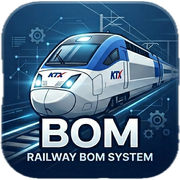
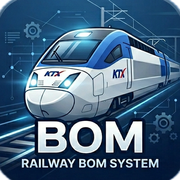
fix(pwa): 아이콘 8% 확대 후 가운데 크롭 — 둘레 흰 테두리 제거
원본 둘레에 얇은 흰 가장자리가 있어 모바일에서도 살짝 보였음.
ZOOM=1.08로 살짝 확대한 뒤 같은 크기로 가운데 크롭해서
바깥 흰 띠를 잘라냄. 콘텐츠는 살짝 커진 만큼 가장자리만 손실.

diff --git a/backend/convert_user_icon.py b/backend/convert_user_icon.py
@@ -8,19 +8,32 @@ SRC = Path(r'C:\Users\shg98\Desktop\철도공사\4차\아이콘2.png')
 DST_DIR = Path(__file__).resolve().parent.parent / 'frontend' / 'public'
 
 
+ZOOM = 1.08  # 8% 확대 후 가운데 크롭 → 둘레의 얇은 흰 테두리 제거
+
+
 def main():
     print(f'소스: {SRC}')
     im = Image.open(SRC).convert('RGBA')
     print(f'원본: {im.size}')
 
-    # 정사각이 아니면 더 긴 쪽 기준으로 짧은 쪽에 투명 패딩 추가
+    # 정사각이 아니면 더 짧은 쪽 기준으로 가운데 크롭 (긴 쪽 잘라내기)
     w, h = im.size
     if w != h:
-        side = max(w, h)
-        canvas = Image.new('RGBA', (side, side), (0, 0, 0, 0))
-        canvas.paste(im, ((side - w) // 2, (side - h) // 2), im)
-        im = canvas
-        print(f'정사각화: {im.size}')
+        side = min(w, h)
+        left = (w - side) // 2
+        top  = (h - side) // 2
+        im = im.crop((left, top, left + side, top + side))
+        print(f'정사각 크롭: {im.size}')
+
+    # 살짝 확대 후 가운데에서 같은 크기로 크롭 → 흰 테두리 제거
+    w0, h0 = im.size
+    new_w = int(w0 * ZOOM)
+    new_h = int(h0 * ZOOM)
+    im = im.resize((new_w, new_h), Image.LANCZOS)
+    left = (new_w - w0) // 2
+    top  = (new_h - h0) // 2
+    im = im.crop((left, top, left + w0, top + h0))
+    print(f'{int((ZOOM-1)*100)}% 확대+크롭 후: {im.size}')
 
     targets = [
         ('pwa-512.png', 512),
